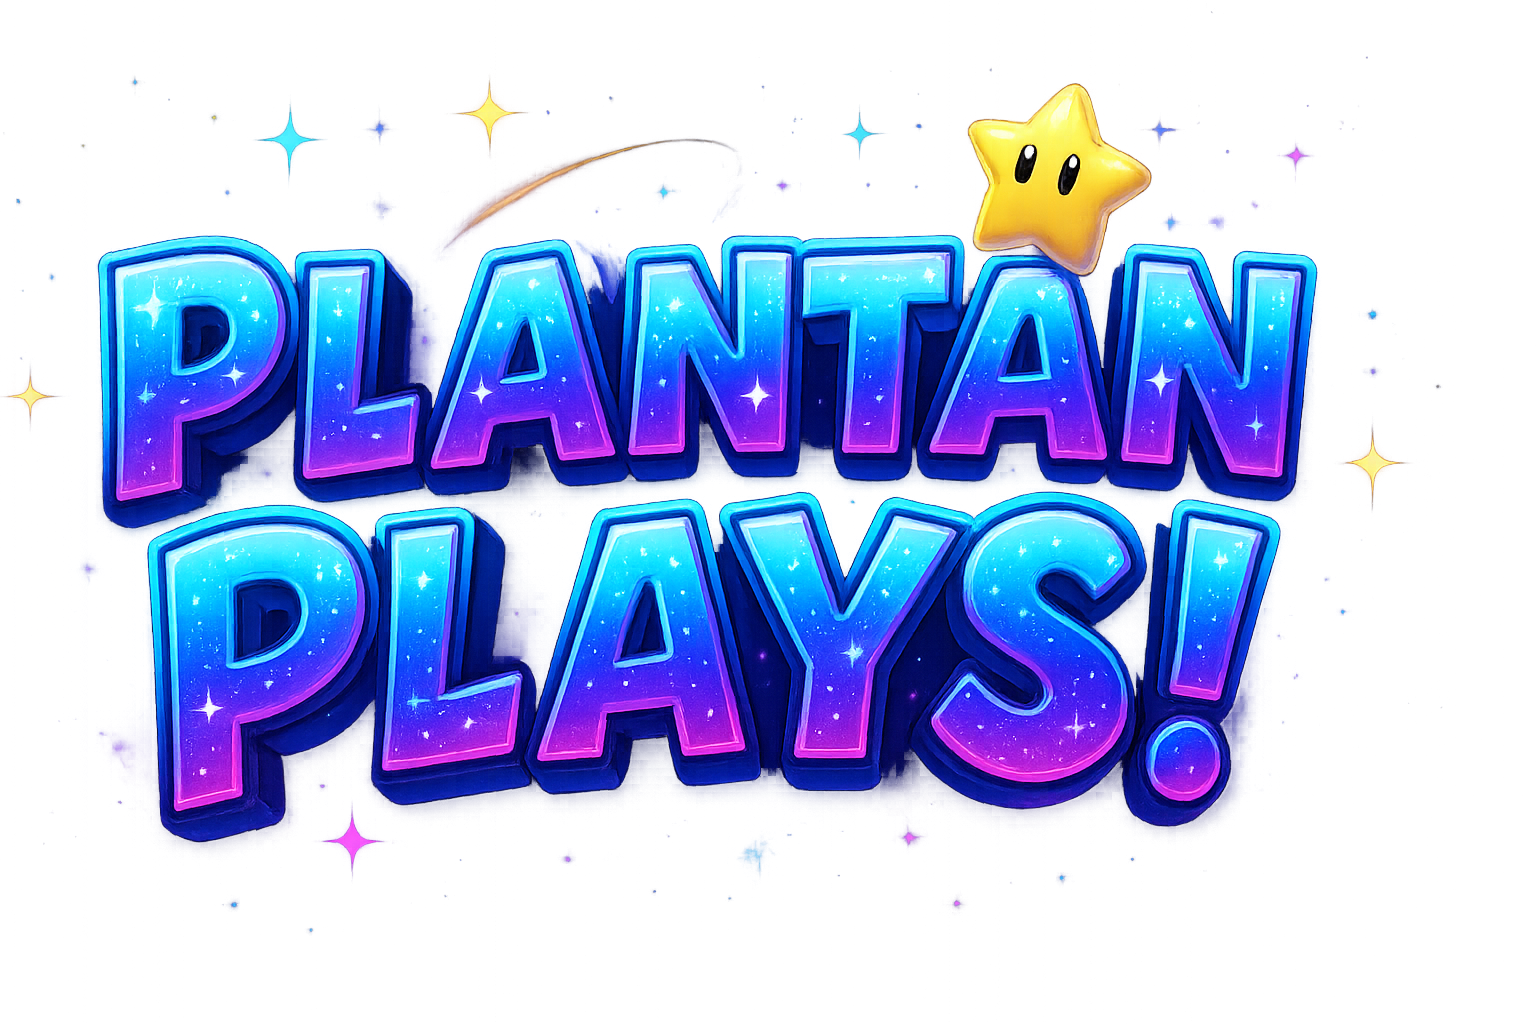
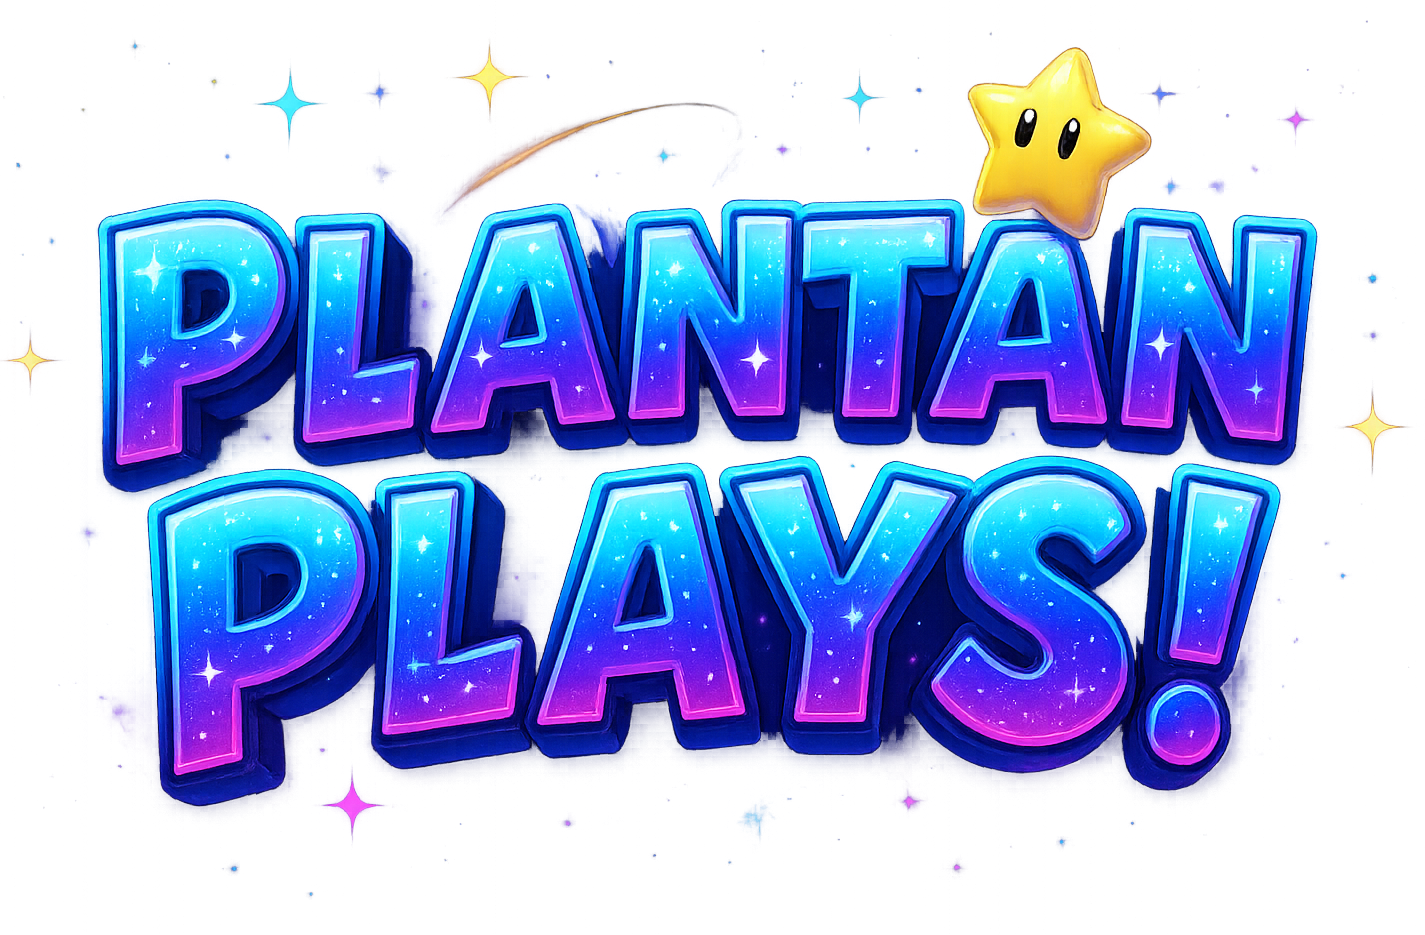
cleanup
1. css cleanup
2. game dialog fixes

diff --git a/style.css b/style.css
@@ -1,12 +1,19 @@
 @import url('https://fonts.googleapis.com/css2?family=Bitcount+Grid+Double:wght@100..900&display=swap');
 
-html {
+* { transition: 0.2s; }
+
+body {
+    display: flex;
+    flex-direction: column;
+    align-items: center;
     background-color: #182126;
     color: antiquewhite;
     font-family: "Bitcount Grid Double", system-ui;
     font-size: 20px;
-    /* font-family: monospace; */
 }
+
+/* For the banner */
+body > img { max-width: 75vh; }
 
 .filter {
     display: flex;
@@ -14,124 +21,94 @@ html {
     padding-bottom: 5vh;
 }
 
-.banner {
-    width: 30%;
-    height: auto;
-    margin: auto;
-}
-
-.banner > img {
-    width: 100%;
-    height: 100%;
-}
-
 .grid {
-    width: 75%;
-    max-width: 1500px;
     display: grid;
-    grid-template-columns: 1fr 1fr 1fr 1fr 1fr 1fr 1fr;
+    width: 75vw;
+    max-width: 1500px;
+    grid-template-columns: repeat(7, 1fr);
     gap: 1rem;
-    margin: auto;
 }
 
 .image {
-    display: grid;
     border-radius: 25px;
+    max-width: calc(1500px / 7 - 2rem);
+    aspect-ratio: 1 / 1.32;
+    overflow: hidden;
+    container-type: size;
     position: relative;
-    aspect-ratio: 1 / 1;
+    cursor: cell;
+    box-shadow: -2px -2px 5 rgba(0, 0, 0, 0.4), 5px 5px 5 rgba(0, 0, 0, 0.5);
 }
 
 .image img {
-    border-radius: 25px;
     width: 100%;
-    height: 10vw;
-    max-height: 200px;
-    object-fit: cover;
+    height: 100%;
+    object-fit: contain;
     filter: brightness(100%);
-    transition: 0.3s;
 }
 
-.image img:hover {
-    filter: brightness(30%);
-    cursor: cell;
-    transition: 0.1s;
-}
+.image img:hover { filter: brightness(25%); }
+.image:hover .image_text { opacity: 100%; }
 
-.image:hover .info {
-    color: antiquewhite;
-    opacity: 100%;
-    transition: 0.1s;
-}
-
-.info {
+.image_text {
     opacity: 0%;
     position: absolute;
     text-align: center;
     width: 90%;
+    font-size: 10cqw;
     pointer-events: none;
     top: 50%;
     left: 50%;
     transform: translate(-50%, -50%);
     -ms-transform: translate(-50%, -50%);
-    transition: 0.3s;
 }
 
 .overlay {
     pointer-events: none;
     position: fixed;
-    transform: translate(-50%, -50%);
-    top: 50%;
-    left: 50%;
-    width: 100vw;
-    height: 100vh;
-    background-color: rgba(0, 0, 0, 0.0);
-    transition: 0.2s;
+    top: 0;
+    width: 100%;
+    height: 100%;
+    background-color: rgba(0, 0, 0, 0);
 }
 
 .overlay_active {
     pointer-events: auto;
-    background-color: rgba(0, 0, 0, 0.8);
-    transition: 0.2s;
+    background-color: rgba(0, 0, 0, 0.9);
 }
 
 .game_dialog {
+    display: flex;
     position: fixed;
     transform: translate(-50%, 0);
     top: 100%;
     left: 50%;
-    width: 50vw;
-    height: 20rem;
-    max-width: 1024px;
-    /* min-height: 3rem;
-    max-height: 50rem; */
+    width: 40vw;
+    aspect-ratio: 2;
     background-color: rgb(22, 22, 31);
     border-radius: 25px;
-    box-shadow: 0 4px 8px 0 rgba(0, 0, 0, 0.2), 0 6px 20px 0 rgba(0, 0, 0, 0.19);
-    transition: 0.2s;
+    container-type: size;
+    overflow: hidden;
 }
+
+.game_dialog:hover { background-color: rgb(31, 31, 44); }
 
 .game_dialog_active {
     top: 50%;
     transform: translate(-50%, -50%);
-    transition: 0.2s ease-out;
-}
-
-.game_dialog:hover {
-    background-color: rgb(31, 31, 44);
-    transition: 0.2s;
-}
-
-.game_dialog_grid {
-    display: grid;
-    position: absolute;
-    width: 100%;
-    height: 100%;
 }
 
 .game_dialog_info {
     display: flex;
-    align-items: center;
-    flex-direction: row;
-    padding-left: 1rem;
+    padding: 0 1rem;
+    flex-direction: column;
+    justify-content: space-evenly;
+    font-size: 3cqw;
     color: gold;
+    text-shadow: 3px 3px 3 black;
+}
+
+#game_dialog_img {
+    height: 100%;
+    object-fit: contain;
 }

diff --git a/index.html b/index.html
@@ -1,38 +1,41 @@
 <!DOCTYPE html>
+<html>
 
-<html> 
-    <head>
-        <meta charset="UTF-8">
-        <meta name="viewport" content="width=device-width, initial-scale=1.0">
-        <title>Plantan Plays</title>
+<head>
+    <meta charset="UTF-8">
+    <meta name="viewport" content="width=device-width, initial-scale=1.0">
+    <title>Plantan Plays</title>
 
-        <link href="style.css" rel="stylesheet" />
-        <script src="https://unpkg.com/vue@3/dist/vue.global.js"></script>
-        <script src="https://cdnjs.cloudflare.com/ajax/libs/PapaParse/5.4.1/papaparse.min.js" integrity="sha512-dfX5uYVXzyU8+KHqj8bjo7UkOdg18PaOtpa48djpNbZHwExddghZ+ZmzWT06R5v6NSk3ZUfsH6FNEDepLx9hPQ==" crossorigin="anonymous" referrerpolicy="no-referrer"></script>
-        <script src="app.js" defer></script>
-    </head>
-    <body>
-        <div id="app">
-            <div class="banner"><img src="banner.png" /></div>
-            
-            <div class="filter">-- FILTER STUFF HERE --</div>
+    <link href="style.css" rel="stylesheet" />
+    <script src="https://unpkg.com/vue@3/dist/vue.global.js"></script>
+    <script src="https://cdnjs.cloudflare.com/ajax/libs/PapaParse/5.4.1/papaparse.min.js"
+        integrity="sha512-dfX5uYVXzyU8+KHqj8bjo7UkOdg18PaOtpa48djpNbZHwExddghZ+ZmzWT06R5v6NSk3ZUfsH6FNEDepLx9hPQ=="
+        crossorigin="anonymous" referrerpolicy="no-referrer"></script>
+    <script src="app.js" defer></script>
+</head>
 
-            <div class="grid">
-                <div class="image" v-for="(row, index) in parsedCSV">
-                    <img :src="images[row[4]] == undefined ? 'https://i.pinimg.com/474x/06/72/ee/0672eec0c5816c3e4e03f7eeef9d8577.jpg' : images[row[4]]" @click="showOverlay = true; game_row = row;" />
-                    <div class="info">{{ row[0] }}</div>
-                </div>
-            </div>
+<body>
+    <img src="banner.png" />
 
-            <div class="overlay" :class="{ overlay_active: showOverlay }" @click="showOverlay = false"></div>
-            <div class="game_dialog" :class="{ game_dialog_active: showOverlay }">
-                <div class="game_dialog_grid">
-                    <span class="game_dialog_info"><b>Title:&nbsp;</b>{{ game_row[0] }}</span>
-                    <span class="game_dialog_info"><b>Date:&nbsp;</b>{{ game_row[1] }}</span>
-                    <span class="game_dialog_info"><b>Comment:&nbsp;</b>{{ game_row[2] }}</span>
-                    <span class="game_dialog_info"><b>Platform:&nbsp;</b>{{ game_row[3] }}</span>
-                </div>
-            </div>
+    <div class="filter">-- FILTER STUFF HERE --</div>
+
+    <div class="grid">
+        <div class="image" v-for="(row, index) in parsedCSV">
+            <img :src="images[row[4]]" @click="select_game(row, images[row[4]]);" />
+            <div class="image_text">{{ row[0] }}</div>
         </div>
-    </body>
+    </div>
+
+    <div class="overlay" :class="{ overlay_active: showOverlay }" @click="showOverlay = false;"></div>
+    <div class="game_dialog" :class="{ game_dialog_active: showOverlay }">
+        <img :src="selected_game_image" id="game_dialog_img" />
+        <div class="game_dialog_info">
+            <span><b>Title: </b>{{ selected_game_row[0] }}</span>
+            <span v-if="selected_game_row[1]"><b>Date: </b>{{ selected_game_row[1] }}</span>
+            <span v-if="selected_game_row[2]"><b>Comment: </b>{{ selected_game_row[2] }}</span>
+            <span><b>Platform: </b>{{ selected_game_row[3] }}</span>
+        </div>
+    </div>
+</body>
+
 </html>

diff --git a/app.js b/app.js
@@ -5,7 +5,14 @@ createApp({
         const showOverlay = ref(false);
         const parsedCSV = ref([]);
         const images = ref({});
-        const game_row = ref({});
+        const selected_game_row = ref({});
+        const selected_game_image = ref("");
+
+        function select_game(row, image_url) {
+            showOverlay.value = true;
+            selected_game_row.value = row;
+            selected_game_image.value = image_url;
+        }
 
         function loadCSV() {
             fetch("games-finished.csv")
@@ -27,11 +34,13 @@ createApp({
         loadCSV();
 
         return {
+            select_game,
             loadCSV,
             showOverlay,
             parsedCSV,
             images,
-            game_row
+            selected_game_row,
+            selected_game_image
         };
     }
-}).mount('#app');
+}).mount('body');
